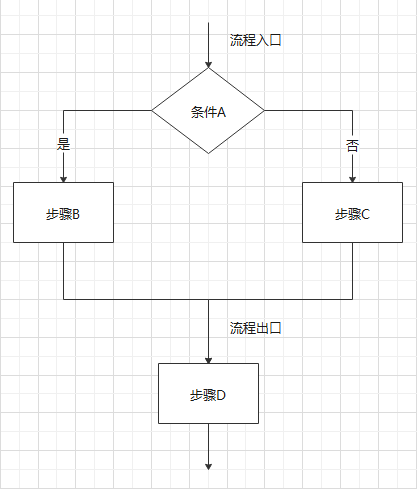
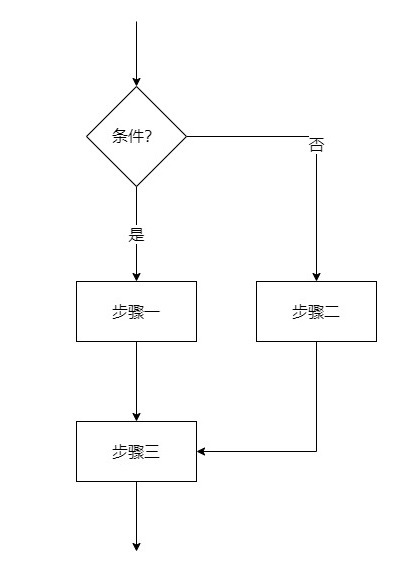
feat: 流程图规范文档

diff --git a/2022/流程图规范/README.md b/2022/流程图规范/README.md
@@ -1,92 +1,60 @@
-# 这几种图帮你更好进行设计活动
+# 怎么做到一图胜千言
 
+> 一张图片胜过千言万语
 
-
-## UML
-
-### 什么是 UML？
-
-UML 是Unified Modeling Language 缩写，译为统一建模语言，是始于1997年一个OMG标准，是一种面向对象的可视化建模语言。
-
-
-
-### UML有什么？
-
-UML规范定义了两种主要的UML图：结构图和行为图。
-
-
-
-## UML各种图例
-
-### 结构建模图
-
-显示了系统及其部件在不同抽象和实现级别上的静态结构以及它们如何相互关联。结构图中的元素表示系统的有意义的概念，并且可以包括抽象的，现实的和实现的概念。包括：类图、对象图、包图、复合结构图、组件图、部署图、配置文件图。
-
-#### 类图
-
-
-
-#### 组件图
-
-
-
-### 行为图
-
- 显示了系统中对象的动态行为，可以将其描述为系统随时间的一系列更改。包括：用例图、活动图、状态图、顺序图、通信图、交互概览图、时序图。
-
-
-
-#### 时序图
-
-
-
-#### 用例图
-
-
+本文将介绍方案设计和程序设计过程中常遇到两种图的类型：【流程图】和【时序图】。
 
 ## 流程图
 
-> 流程有哪些作用？我们为什么要画流程图呢？正确的画流程图规范是什么？
-
-### 什么是流程
-
-**具体来说，流程是一项活动或一系列连续有规律的事项或行为进行的程序。**
-
-流程有6个要素，分别是：**资源、过程、结构、结果、对象和价值**。
-
-一个流程会把这些基本要素串联起来，例如流程中资源的输入、流程中的活动、活动的结构，由谁执行，输出结果、流程最终创造的价值等。
-
-### 什么是流程图
-
 **流程图（Flow Chart），顾名思义，就是用来直观地描述一个工作过程的具体步骤图，它使用图形表示流程思路，是一种极好的方法**。它在一些技术设计、工作步骤及商业简报等领域应用较为广泛，也可以称之为输入-输出图。它通常用一些图框来表示各种类型的操作，在框内写出各个步骤，然后用带箭头的线把它们连接起来，以表示执行的先后顺序，用图形表示执行步骤，十分直观形象，易于理解。
 
-## 为什么要画流程图
-
-那么，流程有哪些作用呢？我们为什么要画流程图呢？
+### 什么时候需要流程图
 
 首先，流程图作为一个工具，帮助我们把一个复杂的过程简单而直观地展示出来，大大提高了我们的效率。其次，在我们画出一张流程图之后，方便我们将实际操作的步骤和我们想象的过程进行比较、对照，更加方便我们寻求改进的机会。最后，流程图还能帮助我们将工作过程中复杂的、有问题的、重复的部分、多余的环节以及可以简化和标准化的地方都显示出来，有利于我们把复杂流程简单化。
 
 通常，对于希望创建流程的人来说，无论创建的是什么样的流程，流程图都是很有用的。画流程图主要有以下好处：
 
-1. 一张简明的流程图，能帮你梳理活动流程的先后顺序，让策划、思考的思路更清晰、逻辑更顺畅，有助于流程的逻辑实现和有效解决实际问题。
-2. 流图还能帮助我们查漏补缺，避免活动流程、逻辑上出现遗漏，确保活动流程的完整性。通过梳理、琢磨流程上的步骤和关键节点，可以快速发现遗漏之处，以便及时整改，保证后续方案执行的顺畅。
-3. 流程图还是职场沟通的神兵利器，能够提升我们与老板、同事之间的沟通效率，可以省下不少扯皮的时间。当一件事情的执行步骤比较复杂，判定条件较多，用口头难以表达清楚，用一张流程图，就能高效地解决沟通问题。
-
-
-
-## 流程图规范
-
-为大家介绍一些流程图规范画法。
+1. 一张简明的流程图，能帮我们梳理方案的实现，让思考的思路更清晰、逻辑更顺畅，有助于流程的逻辑实现和有效解决实际问题。
+2. 流图还能帮助我们查漏补缺，避免技术方案上出现遗漏，确保方案的完整性。通过梳理流程上的关键节点，可以快速发现遗漏之处，以便及时整改，保证后续方案执行的顺畅。
+3. 流程图能够有效提升我们与同事之间的沟通效率。当一个技术方案比较复杂，判定条件较多，用口头难以表达清楚，用一张流程图，就能高效地解决沟通问题。
 
 ### 常见符号
 
-既然说起流程图规范，那不得不提的就是流程图的三大结构。在说三大结构之前，首先需要注意的就是流程图的符号要求。
+首先需要注意的就是流程图的符号要求。
 
 ![](./img/base.jpg)
 
-如上图所示，这些就是流程图设计中比较常用的一些形状。它们都有特定的含义，所以不能乱用。在流程图规范中，流程图的符号使用是最容易出错的。
+如上图所示，这些就是流程图设计中比较常用的一些形状。它们都有特定的含义，正确的使用能让流程图更加清晰。在绘制流程图中，符号使用是最容易出错的。
 
-### 绘制规范
+
+
+### 三大结构
+
+流程图规范有三大结构，分别为顺序结构、选择结构和循环结构。
+
+#### 顺序结构
+
+这种结构最简单，各个步骤是按先后顺序执行的。如图，A、B、C是三个连续的步骤，它们是按顺序执行的，即完成上一个框中指定的操作才能再执行下一个动作。
+
+![](./img/sequence.jpg)
+
+#### 选择结构
+
+选择结构又称分支结构，用于判断给定的条件，根据判断的结果判断某些条件，根据判断的结果来控制程序的流程。
+
+![](./img/select.jpg)
+
+#### 循环结构
+
+循环结构又称为重复结构，指在程序中需要反复执行某个功能而设置的一种程序结构。它由循环体中的条件，判断继续执行某个功能还是退出循环。
+
+根据判断条件，循环结构又可细分为以下两种形式：先判断后执行的循环结构（当型结构），和先执行后判断的循环结构（直到型结构）。
+
+![](./img/for.jpg)
+
+
+
+### 绘制细节
 
 1. 绘制流程图时，为了提高流程图的逻辑性，应遵循从左到右、从上到下的顺序排列。
 2. 一个流程从开始符开始，以结束符结束。开始符号只能出现一次，而结束符号可出现多次。若流程足够清晰，可省略开始、结束符号。
@@ -97,19 +65,78 @@ UML规范定义了两种主要的UML图：结构图和行为图。
 7. 处理流程须以单一入口和单一出口绘制，同一路径的指示箭头应只有一个。
 8. 同一路径的指示箭头应只有一个。
 9. 流程图中，如果有参考其他已经定义的流程，不需重复绘制，直接用已定义流程符号即可。
+9. 不要在一张图上表达两种不同的信息流。
+9. 一个完整图最好不要超过 20 个节点，节点越多，图的复杂度上升，可读性也会随之下降。
 
 
 
-### 三大结构
+## 时序图
 
-流程图规范需要注意三大结构，这三大结构分别为顺序结构、选择结构和循环结构
+**时序图是基于交互的对象行为建模，是 UML 用于描述对象之间信息的交互过程的方法，是描述对象间协作关系的模型。**
 
-#### 顺序结构
+时序图用于捕获系统运行中对象之间有时间顺序的交互，是由生命线和消息组成。
 
-#### 选择结构
+### 常见符号
 
-#### 循环结构
+首先给大家介绍一下时序图中常见的符号及其作用。
+
+![](./img/base-sequence.jpg)
+
+如上图所示，这些就是时序图设计中比较常用的一些形状。
 
 
 
-### 数据流图
+### 基本结构
+
+时序图将交互关系表示为一个二维图。纵向是时间轴，时间沿竖线向下延伸。横向轴代表了在协作中各独立对象的类元角色。类元角色用生命线表示。当对象存在时，角色用一条虚线表示，当对象的过程处于激活状态时，生命线是一个双道线。消息用从一个对象的生命线到另一个对象生命线的箭头表示。箭头以时间顺序在图中从上到下排列。
+
+![](./img/template.jpg)
+
+
+
+### 绘制细节
+
+1. 明确上下文，剔除掉无关紧要的场景，确保关注点都放在核心需求上。
+2. 初始化整个交互活动的对象放置在最左端。
+3. 交互频繁的对象放在相邻的位置。
+4. 明确角色和对象，无关的对象可以剔除。
+5. 区分好同步信息和返回信息，同步信息用的是实线，返回信息用的是虚线，不是向左的线就是返回信息。
+
+
+
+## 实践：灰度发布方案
+
+我们需要一个方案：在不影响用户正常使用工作的前提下，引入小部分的用户来使用新版本，帮助我们测试用户对于新版本的接受程度；避免决策失误所产生的问题影响到大部分甚至全量用户，保证了产品平滑过度。
+
+### 场景梳理
+
+首先梳理场景流程，这里有个问题需要考虑：从什么视角去梳理？因为不同的人看到的流程是不一样的。
+
+答案：取决于需要解决什么问题，因为我们要管理用户可以使用系统的版本，所以从用户视角出发是一个合适的选择。梳理完出发点后
+
+### 流程图
+
+![](./img/example-flow.jpg)
+
+从上图，不难看出流程图对于简单逻辑场景表达效果很棒，但是不适用于复杂的逻辑，复杂场景意味着图内元素增多，很难把控。
+
+而且我们发现流程图的内容很少涉及状态变化、数据流动的表达。
+
+
+
+### 时序图
+
+
+
+![](./img/example-user.jpg)
+
+上图侧重于交互，适合按照时间顺序体现一个业务流程中交互细节，但是时序图并不擅长体现复杂逻辑分支。
+
+如果某个逻辑分支特别重要，可以选择再画一个时序图。例如支付流程中有支付成功正常流程，也有支付失败异常流程，这两个流程都非常重要，所以可以用两张时序图体现。
+
+
+
+## 总结
+
+各种图的绘制都是需要在平常中不断练习、打磨，这样才能有成长。
+

diff --git a/2022/做好方案设计/README.md b/2022/做好方案设计/README.md
@@ -1,0 +1,12 @@
+# 如何做好技术方案设计活动
+
+> 在做版本的过程中，我们难免会遇到高难度的技术目标，在技术层面的不确定性会给我们的项目进度带来很大的风险，那么我们在面对这种场景的时候应该怎么排除技术上的问题，消除风险，保证我们的目标可达呢？
+
+本文会用一个【toB 项目微前端改造设计方案】作为例子，和大家分享怎么做好技术方案的设计活动。
+
+
+
+## 需求分析
+
+
+

diff --git a/2022/大型 toB 项目基建实战/http2升级.md b/2022/大型 toB 项目基建实战/http2升级.md
@@ -1,0 +1,6 @@
+# 将网站升级到 HTTP/2
+
+## 背景
+
+1. 首屏加载的静态资源越来越多，HTTP 1.1 只支持 6 个资源的并发数，即使有 CDN 的加持，加载的时间还是比较慢；
+2. 
